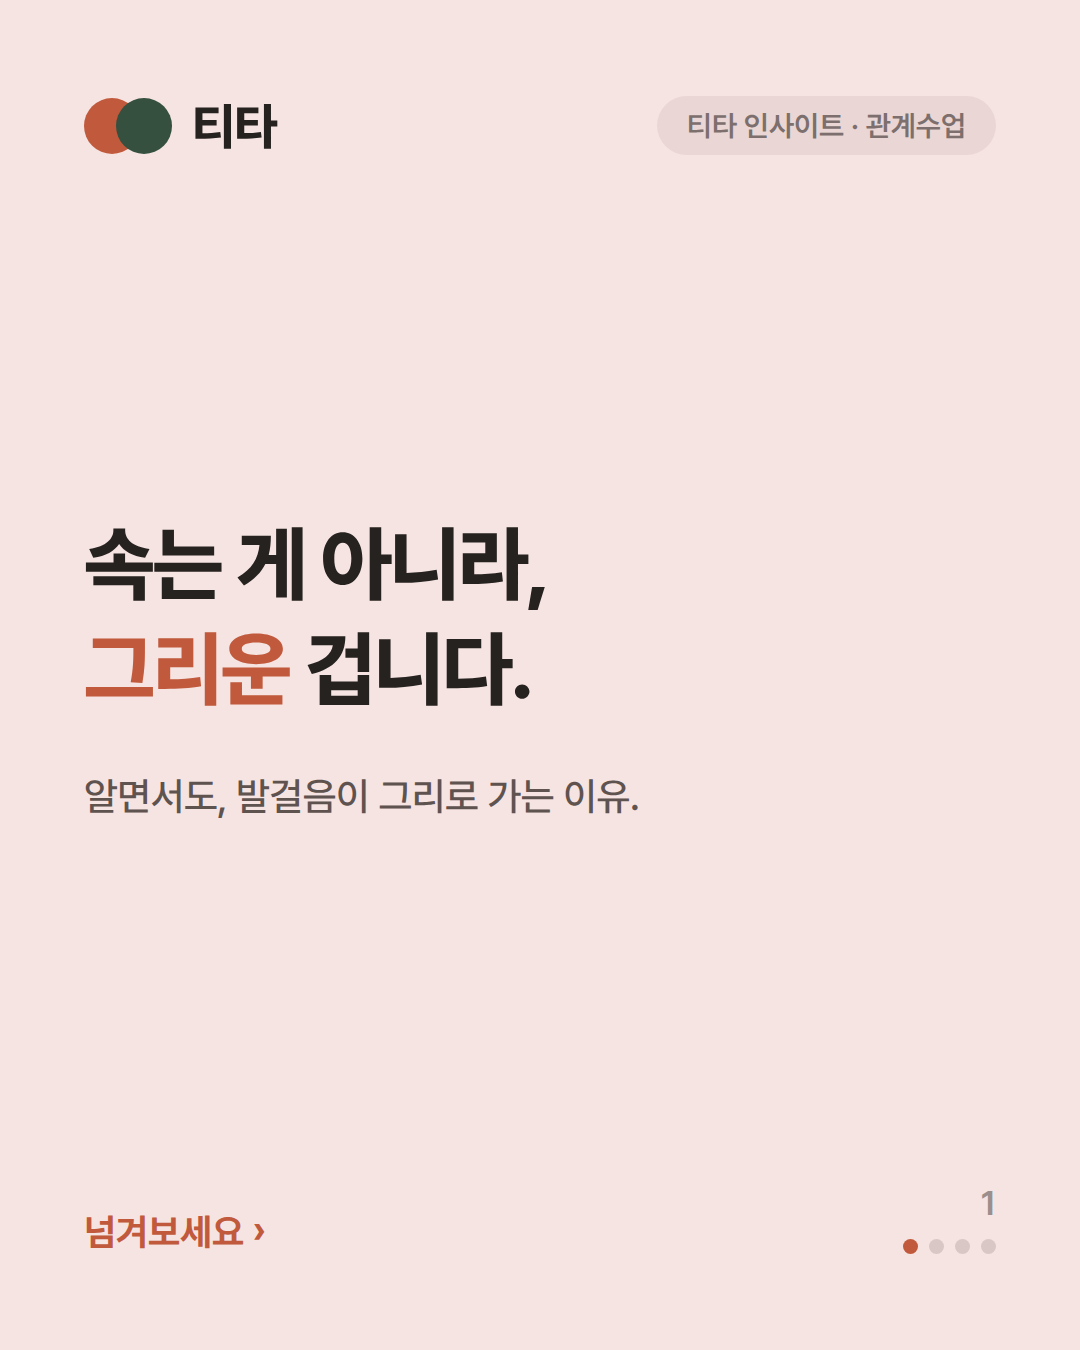
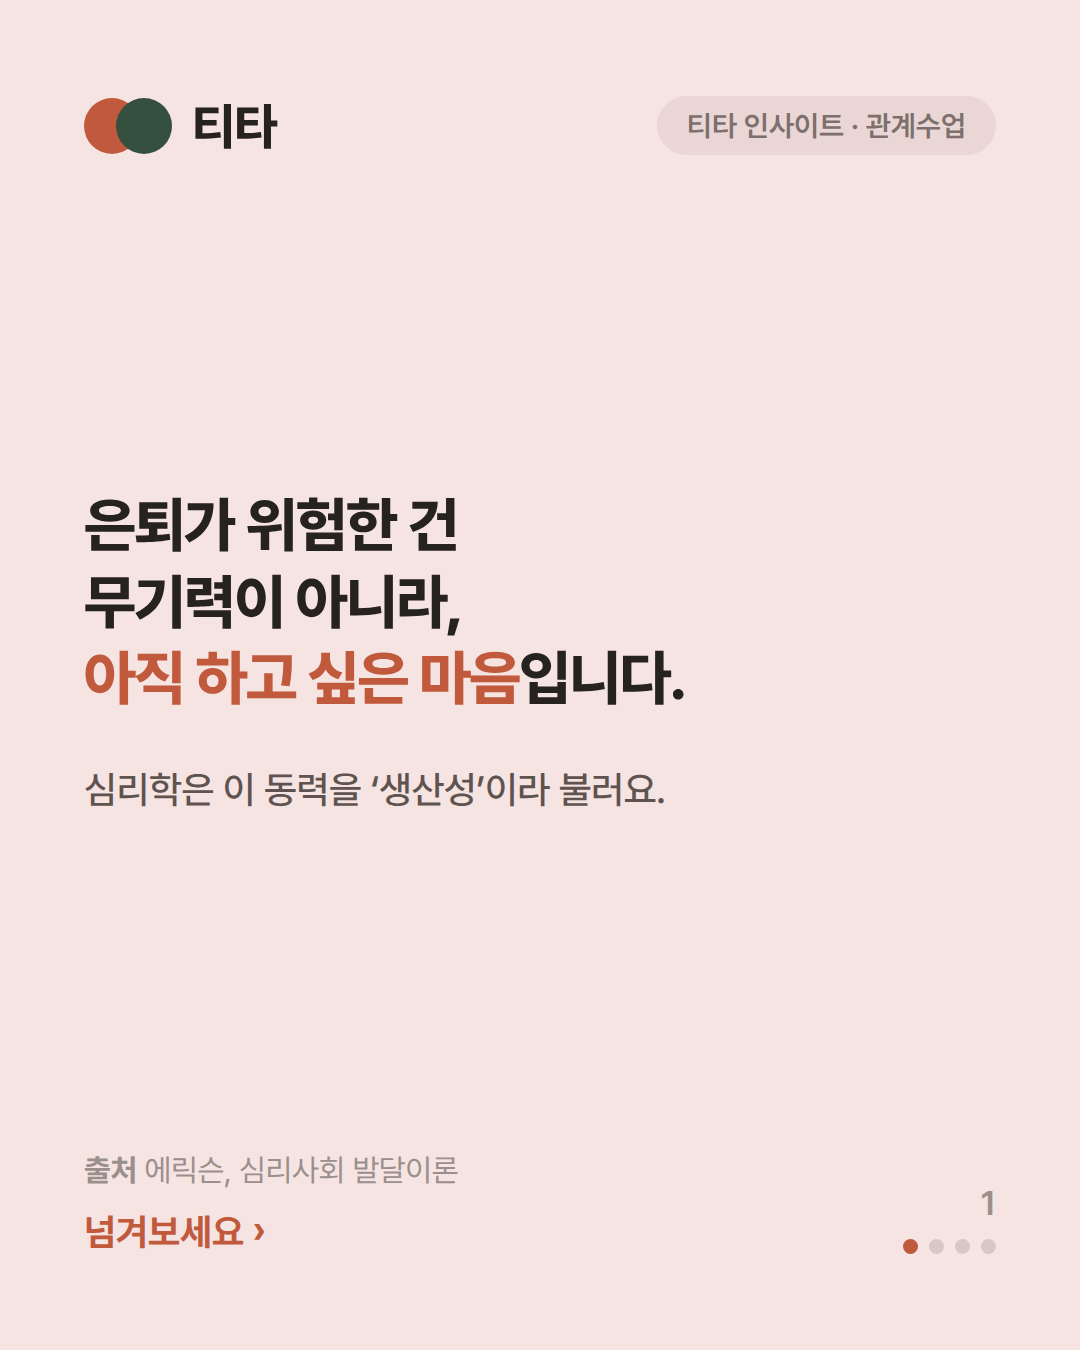
refactor(blog): 4번째 글 전문 재작성 + 카드세트 심리학 리드로 교체
- '속는 게 아니라 그리운 겁니다'(7080 정서) → 5060 심리로 승격
- 제목: 은퇴 후 '한 방'에 흔들리는 건 판단력이 아니라 심리학의 문제
- 구어체 제거, 에릭슨 생산성으로 오프닝(권위 리드) → SDT 유능감·관계감 → mattering
- 인사이트 #06 카드 4장 교체: 심리학(생산성)을 1번 오프닝으로 재배열, 전문 톤
- sources/faq도 학술 근거(에릭슨·Deci&Ryan·Rosenberg)로 정리

Claude-Session: https://claude.ai/code/session_01SVoaR1M7XWjiBzTKquaj1d

Changed region(s): [[0.0611, 0.3733, 0.6417, 0.5289], [0.0611, 0.56, 0.6111, 0.6222], [0.0611, 0.84, 0.4278, 0.8711]]

diff --git a/src/app/blog/posts.ts b/src/app/blog/posts.ts
@@ -43,99 +43,84 @@ export interface BlogPost {
 export const POSTS: BlogPost[] = [
   {
     slug: "not-fooled-but-longing",
-    title: "속는 게 아니라, 그리운 겁니다 — 5060이 흔들리는 진짜 이유",
+    title: "은퇴 후 ‘한 방’에 흔들리는 건, 판단력이 아니라 심리학의 문제입니다",
     description:
-      "알면서도 발걸음이 그리로 가는 이유. 그들이 판 건 물건이 아니라 ‘다시 필요한 존재가 된 느낌’이었습니다. 에릭슨의 생산성, 자기결정이론으로 읽는 5060의 진짜 허기.",
+      "은퇴한 5060이 투자·다단계 같은 ‘한 방’에 흔들리는 이유를 에릭슨의 생산성, 자기결정이론으로 읽습니다. 판단력이 아니라, 충족되지 못한 심리 욕구의 문제입니다.",
     date: "2026-07-26",
     category: "관계 인사이트",
     tags: [
-      "외로움",
-      "5060",
       "은퇴",
-      "인정욕구",
-      "소속감",
-      "관계",
-      "살아있는 기분",
+      "5060",
+      "생산성",
+      "에릭슨",
+      "자기결정이론",
+      "투자 사기",
+      "다단계",
+      "심리",
     ],
     cover: "/blog/insight-06/card-1.png",
-    readingMinutes: 4,
+    readingMinutes: 5,
     body: [
       {
         type: "p",
-        text: "무언가에 마음을 빼앗겼다가 뒤늦게 후회한 적, 한 번쯤 있을지 모릅니다. ‘한 방’을 노린 투자, 어느새 발을 담근 다단계, 유난히 살갑던 누군가의 권유. 지나고 보면 신호는 분명 있었습니다. 그런데도 그때는 발걸음이 그리로 향했죠. 어리석어서가 아닙니다. 이건 **머리의 문제가 아니라 마음의 문제**입니다.",
+        text: "심리학자 에릭 에릭슨은 중년 이후 삶의 핵심 과제를 **‘생산성(generativity)’** 이라 규정했다. 무언가를 만들고 돌보며 다음 세대에 기여함으로써 ‘나는 여전히 쓸모 있는 사람’이라고 느끼려는 욕구다. 이 욕구가 출구를 잃을 때 찾아오는 상태를 그는 **‘정체(stagnation)’** 라 불렀다. 은퇴는 바로 이 지점을 정면으로 건드린다.",
       },
       {
         type: "image",
         src: "/blog/insight-06/card-1.png",
-        alt: "속는 게 아니라 그리운 겁니다 — 알면서도 발걸음이 그리로 가는 이유라는 티타 인사이트 카드",
+        alt: "은퇴가 위험한 건 무기력이 아니라 아직 하고 싶은 마음이다 — 심리학은 이 동력을 생산성이라 부른다는 티타 인사이트 카드",
         caption: "티타 인사이트 · 관계수업 #06",
       },
-      { type: "h2", text: "젊을 땐, 바빴습니다" },
-      {
-        type: "p",
-        text: "젊을 땐 아침이면 나갈 곳이 있었습니다. 나를 필요로 하는 사람이 있었고, 뭔가를 해냈다는 감각이 하루를 채웠습니다. 돈을 버는 것 같았고, 인정받는 것 같았고, 무엇보다 — **살아있는 것 같았습니다.**",
-      },
-      {
-        type: "p",
-        text: "그런데 그 무대가 어느 날 조용히 사라집니다. 은퇴하고, 아이들이 떠나고, 통장엔 ‘적당히 모은 돈’이 있지만 하루는 텅 비어 갑니다. 마음 한구석엔 여전히 그 감각이 남아 있습니다. **뭔가를 더 해내고 싶은 마음, 아직 나는 끝나지 않았다는 마음.**",
-      },
-      { type: "h2", text: "그들이 판 건 물건이 아니었어요" },
+      { type: "h2", text: "은퇴가 앗아가는 것" },
       {
         type: "image",
         src: "/blog/insight-06/card-2.png",
-        alt: "그들이 판 건 물건이 아니라 반가움이었어요 — 당신이 필요하다던 그 살가운 말이라는 티타 인사이트 카드",
-        caption: "판 것은 ‘반가움’",
+        alt: "은퇴는 해냈다는 감각을 한꺼번에 거둬간다 — 통장은 채워도 하루는 비고 나는 아직 안 끝났다는 마음만 남는다는 티타 인사이트 카드",
+        caption: "통장은 채워도, 하루는 빈다",
       },
       {
         type: "p",
-        text: "바로 그 틈을 파고듭니다. 어딘가에 발을 들이면 다시 바빠지고, 돈을 버는 것 같고, 누군가 나를 기다립니다. 나이 들며 종종 보게 되는 풍경도 그렇습니다 — 어르신들을 모아 놓고 젊은 사람들이 노래하고 손을 잡으며 “어머니 오늘도 고우시네” 하고, 별것 아닌 물건을 큰돈에 파는 자리. 다들 압니다, 수상하다는 걸. 그런데도 마음이 기웁니다.",
+        text: "매일 나가던 자리, 나를 필요로 하던 동료, ‘무언가 해냈다’는 하루의 감각. 은퇴는 이것들을 한꺼번에 거둬 간다. 통장에 여윳돈이 있어도 하루는 비어 가고, 마음 한편에는 여전히 뜨거운 동력이 남는다. “나는 아직 끝나지 않았다”는 마음이다. 이 마음은 결함이 아니라, 심리적으로 지극히 건강하고 정상적인 신호다.",
       },
-      {
-        type: "p",
-        text: "그들이 판 건 사실 물건도, 수익도 아니었어요. **“당신이 필요하다”는 그 말, 살갑게 반겨 주는 그 눈빛** 입니다. 어느 순간부터 그 누구도 나를 그렇게 반겨 주지 않았으니까요.",
-      },
-      {
-        type: "callout",
-        text: "속는 게 아닙니다. 그리운 겁니다. 그 자리에서 우리가 산 건, 다시 필요한 존재가 된 느낌이었어요.",
-      },
-      { type: "h2", text: "우리가 진짜 원한 것" },
+      { type: "h2", text: "그 마음이 향하는 곳" },
       {
         type: "image",
         src: "/blog/insight-06/card-3.png",
-        alt: "우리가 원한 건 다시 필요한 존재가 되는 느낌이에요 — 젊을 때처럼 살아있는 기분이라는 티타 인사이트 카드",
-        caption: "다시 필요한 존재가 되는 느낌",
+        alt: "갈 곳 잃은 그 마음이 한 방에 흔들린다 — 투자·다단계·리딩방이 파는 건 수익이 아니라 다시 해내는 감각이라는 티타 인사이트 카드",
+        caption: "팔리는 건 수익이 아니라 ‘감각’",
       },
       {
         type: "p",
-        text: "우리가 정말 바란 건, 어렵지 않은 것들이었어요. **살아있다는 느낌. 나를 찾아 주는 자리. 무언가 해냈다는 성취감. 그리고 누군가에게 필요한 존재라는 감각.** 사기와 상술은 이 네 가지를 한꺼번에, 가짜로, 아주 그럴듯하게 건넵니다.",
+        text: "문제는 이 동력이 갈 곳을 찾지 못할 때다. 그때 ‘한 방’을 약속하는 것들 — 무리한 투자, 다단계, 주식·코인 리딩방 — 이 정확히 그 빈자리를 파고든다. 그곳에 발을 들이면 다시 바빠지고, 돈을 버는 것 같고, 누군가 나를 치켜세운다. 흔히 ‘어떻게 저런 걸 믿나’ 의아해하지만, 실제로 팔리는 것은 상품도 수익도 아니다. **다시 무언가 해내고 있다는 감각, 여전히 필요한 존재라는 느낌**이다.",
       },
-      { type: "h2", text: "심리학도 같은 이야기를 합니다" },
+      { type: "h2", text: "심리학이 설명하는 취약성" },
       {
         type: "p",
-        text: "심리학자 **에릭 에릭슨**은 중년 이후의 핵심 과제를 ‘**생산성(generativity)**’이라 불렀습니다. 무언가를 만들고 돌보며 ‘내가 아직 쓸모 있다’고 느끼려는 욕구죠. 이것이 막히면 **정체(停滯)** 에 빠져 ‘나는 더 이상 필요 없다’는 공허가 찾아옵니다. 은퇴와 빈 둥지는 바로 이 지점을 건드립니다.",
+        text: "동기심리학의 자기결정이론(Deci & Ryan)은 사람에게 세 가지 기본 욕구 — 유능감, 관계감, 자율성 — 이 있다고 본다. 은퇴는 이 중 **유능감(내가 해낸다)과 관계감(사람들과 이어진다)** 을 동시에 무너뜨린다. 사기와 상술은 그 자리에 **가짜 유능감**(조작된 수익 인증)과 **가짜 관계감**(조직적인 환대)을 채워 넣는다. 심리학이 ‘중요한 존재감(mattering)’이라 부르는 것 — 내가 누군가에게 의미 있는 사람이라는 감각 — 이 비어 있을수록, 그 가짜는 더 강하게 작동한다.",
       },
       {
-        type: "p",
-        text: "동기 심리학의 **자기결정이론(Deci & Ryan)** 도 사람에겐 세 가지 기본 욕구 — **유능감(내가 해낸다), 관계감(사람들과 이어진다), 자율성** — 이 있다고 말합니다. 은퇴는 이 중 ‘해냄’과 ‘이어짐’을 한꺼번에 앗아가고, 사기와 상술은 정확히 그 빈자리에 **가짜 유능감과 가짜 반가움**을 채워 넣습니다. 그러니 넘어가는 건 판단력이 약해서가 아니라, **채워지지 않은 정상적인 욕구** 때문입니다.",
+        type: "callout",
+        text: "넘어가는 것은 판단력이 약하거나 탐욕스러워서가 아니다. 채워지지 못한, 지극히 정상적인 욕구 때문이다.",
       },
+      { type: "h2", text: "진짜 방어는 경고가 아니라 충족" },
       {
         type: "p",
-        text: "그러니 “조심하세요”, “속지 마세요” 만으로는 부족합니다. 이미 알고도 가는 마음이니까요. 진짜 필요한 건 경고가 아니라, **그 허기를 진짜로 채우는 것** 입니다. 여전히 나를 반겨 주는 사람, 여전히 내가 누군가에게 반가운 존재가 되는 자리 — 가짜가 아니라 진짜로요.",
+        text: "그래서 “조심하라”는 말만으로는 이 취약성을 막지 못한다. 마음이 이미 알고도 움직이기 때문이다. 근본적인 방어는 경고가 아니라 **충족**이다. 뜨거운 동력을 건강하게 쓸 자리, 여전히 누군가에게 필요하고 반가운 존재가 되는 관계가 일상에 있을 때, 가짜가 파고들 틈은 자연히 줄어든다.",
       },
-      { type: "h2", text: "가짜 대신, 진짜" },
+      { type: "h2", text: "그래서 티타" },
       {
         type: "image",
         src: "/blog/insight-06/card-4.png",
-        alt: "그 허기는 진짜 관계로 채워요 — 여전히 누군가에게 반가운 사람이 되는 자리에서라는 티타 인사이트 카드",
+        alt: "그 마음은 진짜 자리에서 쓰여야 한다 — 여전히 누군가에게 필요한 사람이 되는 곳에서라는 티타 인사이트 카드",
         caption: "my.tita.app",
       },
       {
         type: "p",
-        text: "티타는 그 **진짜 자리**를 만들려 합니다. 결(관심사·삶의 결)이 맞는 사람과 가까운 동네에서 만나 서로를 반기고, 여전히 서로에게 반가운 존재가 되는 자리. 무언가를 팔거나 재촉하지 않아요. 그리고 안심하고 그럴 수 있도록 — **NICE 본인인증**을 통과한 사람만 함께하고, 위험한 대화는 **AI가 감지**하며, 이상하면 **신고 시 관리자가 직접 확인**합니다.",
+        text: "티타가 만들려는 것이 바로 그 자리다. 결(관심사·삶의 결)이 맞는 사람들과 가까운 동네에서 만나 서로에게 힘이 되고, 여전히 서로를 반기는 관계다. 무언가를 팔거나 재촉하지 않는다. 안심하고 그럴 수 있도록 — **NICE 본인인증**을 통과한 사람만 함께하고, 위험한 접근은 **AI가 실시간으로 감지**하며, 이상 신고는 **관리자가 직접 확인**한다.",
       },
       {
         type: "quote",
-        text: "우리가 정말 원한 건 물건도 수익도 아니었어요. 다시 누군가에게 반가운 사람이 되는 것이었죠.",
+        text: "은퇴는 역할의 끝일 뿐, 쓸모의 끝이 아니다. 아직 하고 싶은 그 마음은, 진짜 자리에서 쓰여야 한다.",
       },
     ],
     sources: [
@@ -155,16 +140,16 @@ export const POSTS: BlogPost[] = [
     ],
     faq: [
       {
-        q: "왜 알면서도 사기나 다단계에 마음이 기울까요?",
-        a: "판단력이 아니라 채워지지 않은 욕구의 문제인 경우가 많습니다. 에릭슨은 중년 이후 ‘생산성(내가 쓸모 있다는 감각)’ 욕구를, 자기결정이론은 ‘유능감·관계감’ 욕구를 말합니다. 은퇴 후 이 욕구들이 비면, 그것을 가짜로라도 채워 주는 자리에 마음이 기웁니다.",
+        q: "은퇴 후 왜 투자·다단계 같은 ‘한 방’에 흔들리기 쉬운가요?",
+        a: "판단력이 아니라 채워지지 못한 심리 욕구 때문인 경우가 많습니다. 에릭슨은 중년 이후의 과제를 ‘생산성(내가 쓸모 있다는 감각)’으로, 자기결정이론은 ‘유능감·관계감’으로 설명합니다. 은퇴로 이 욕구가 비면, 그것을 가짜로라도 채워 주는 것에 마음이 기웁니다.",
       },
       {
-        q: "그럼 어떻게 나를 지킬 수 있나요?",
-        a: "‘조심’만으로는 부족합니다. 근본적으로는 그 허기를 진짜 관계로 채우는 것이 가장 강한 방어입니다. 나를 반겨 주는 사람, 내가 반가운 존재가 되는 자리가 일상에 있으면, 가짜에 흔들릴 이유가 줄어듭니다.",
+        q: "그러면 어떻게 대비할 수 있나요?",
+        a: "‘조심하라’는 경고만으로는 부족합니다. 근본적인 방어는 그 동력을 건강하게 쓸 자리와, 여전히 필요하고 반가운 존재가 되는 관계를 일상에 두는 것입니다. 빈 마음이 채워지면 가짜가 파고들 틈이 줄어듭니다.",
       },
       {
-        q: "티타는 이런 문제와 어떻게 연결되나요?",
-        a: "티타는 결이 맞는 사람과 안전하게 만나 서로를 반기는 자리를 만듭니다. 본인인증·AI 안전망·신고 확인으로 애초에 이상한 접근을 걸러, ‘진짜 반가움’을 안심하고 나눌 수 있게 돕습니다.",
+        q: "티타는 이 문제와 어떻게 연결되나요?",
+        a: "티타는 결이 맞는 사람과 안전하게 만나 서로에게 필요하고 반가운 존재가 되는 자리를 만듭니다. 본인인증·AI 안전망·신고 확인으로 이상한 접근을 걸러, 진짜 관계를 안심하고 이어갈 수 있게 돕습니다.",
       },
     ],
   },
